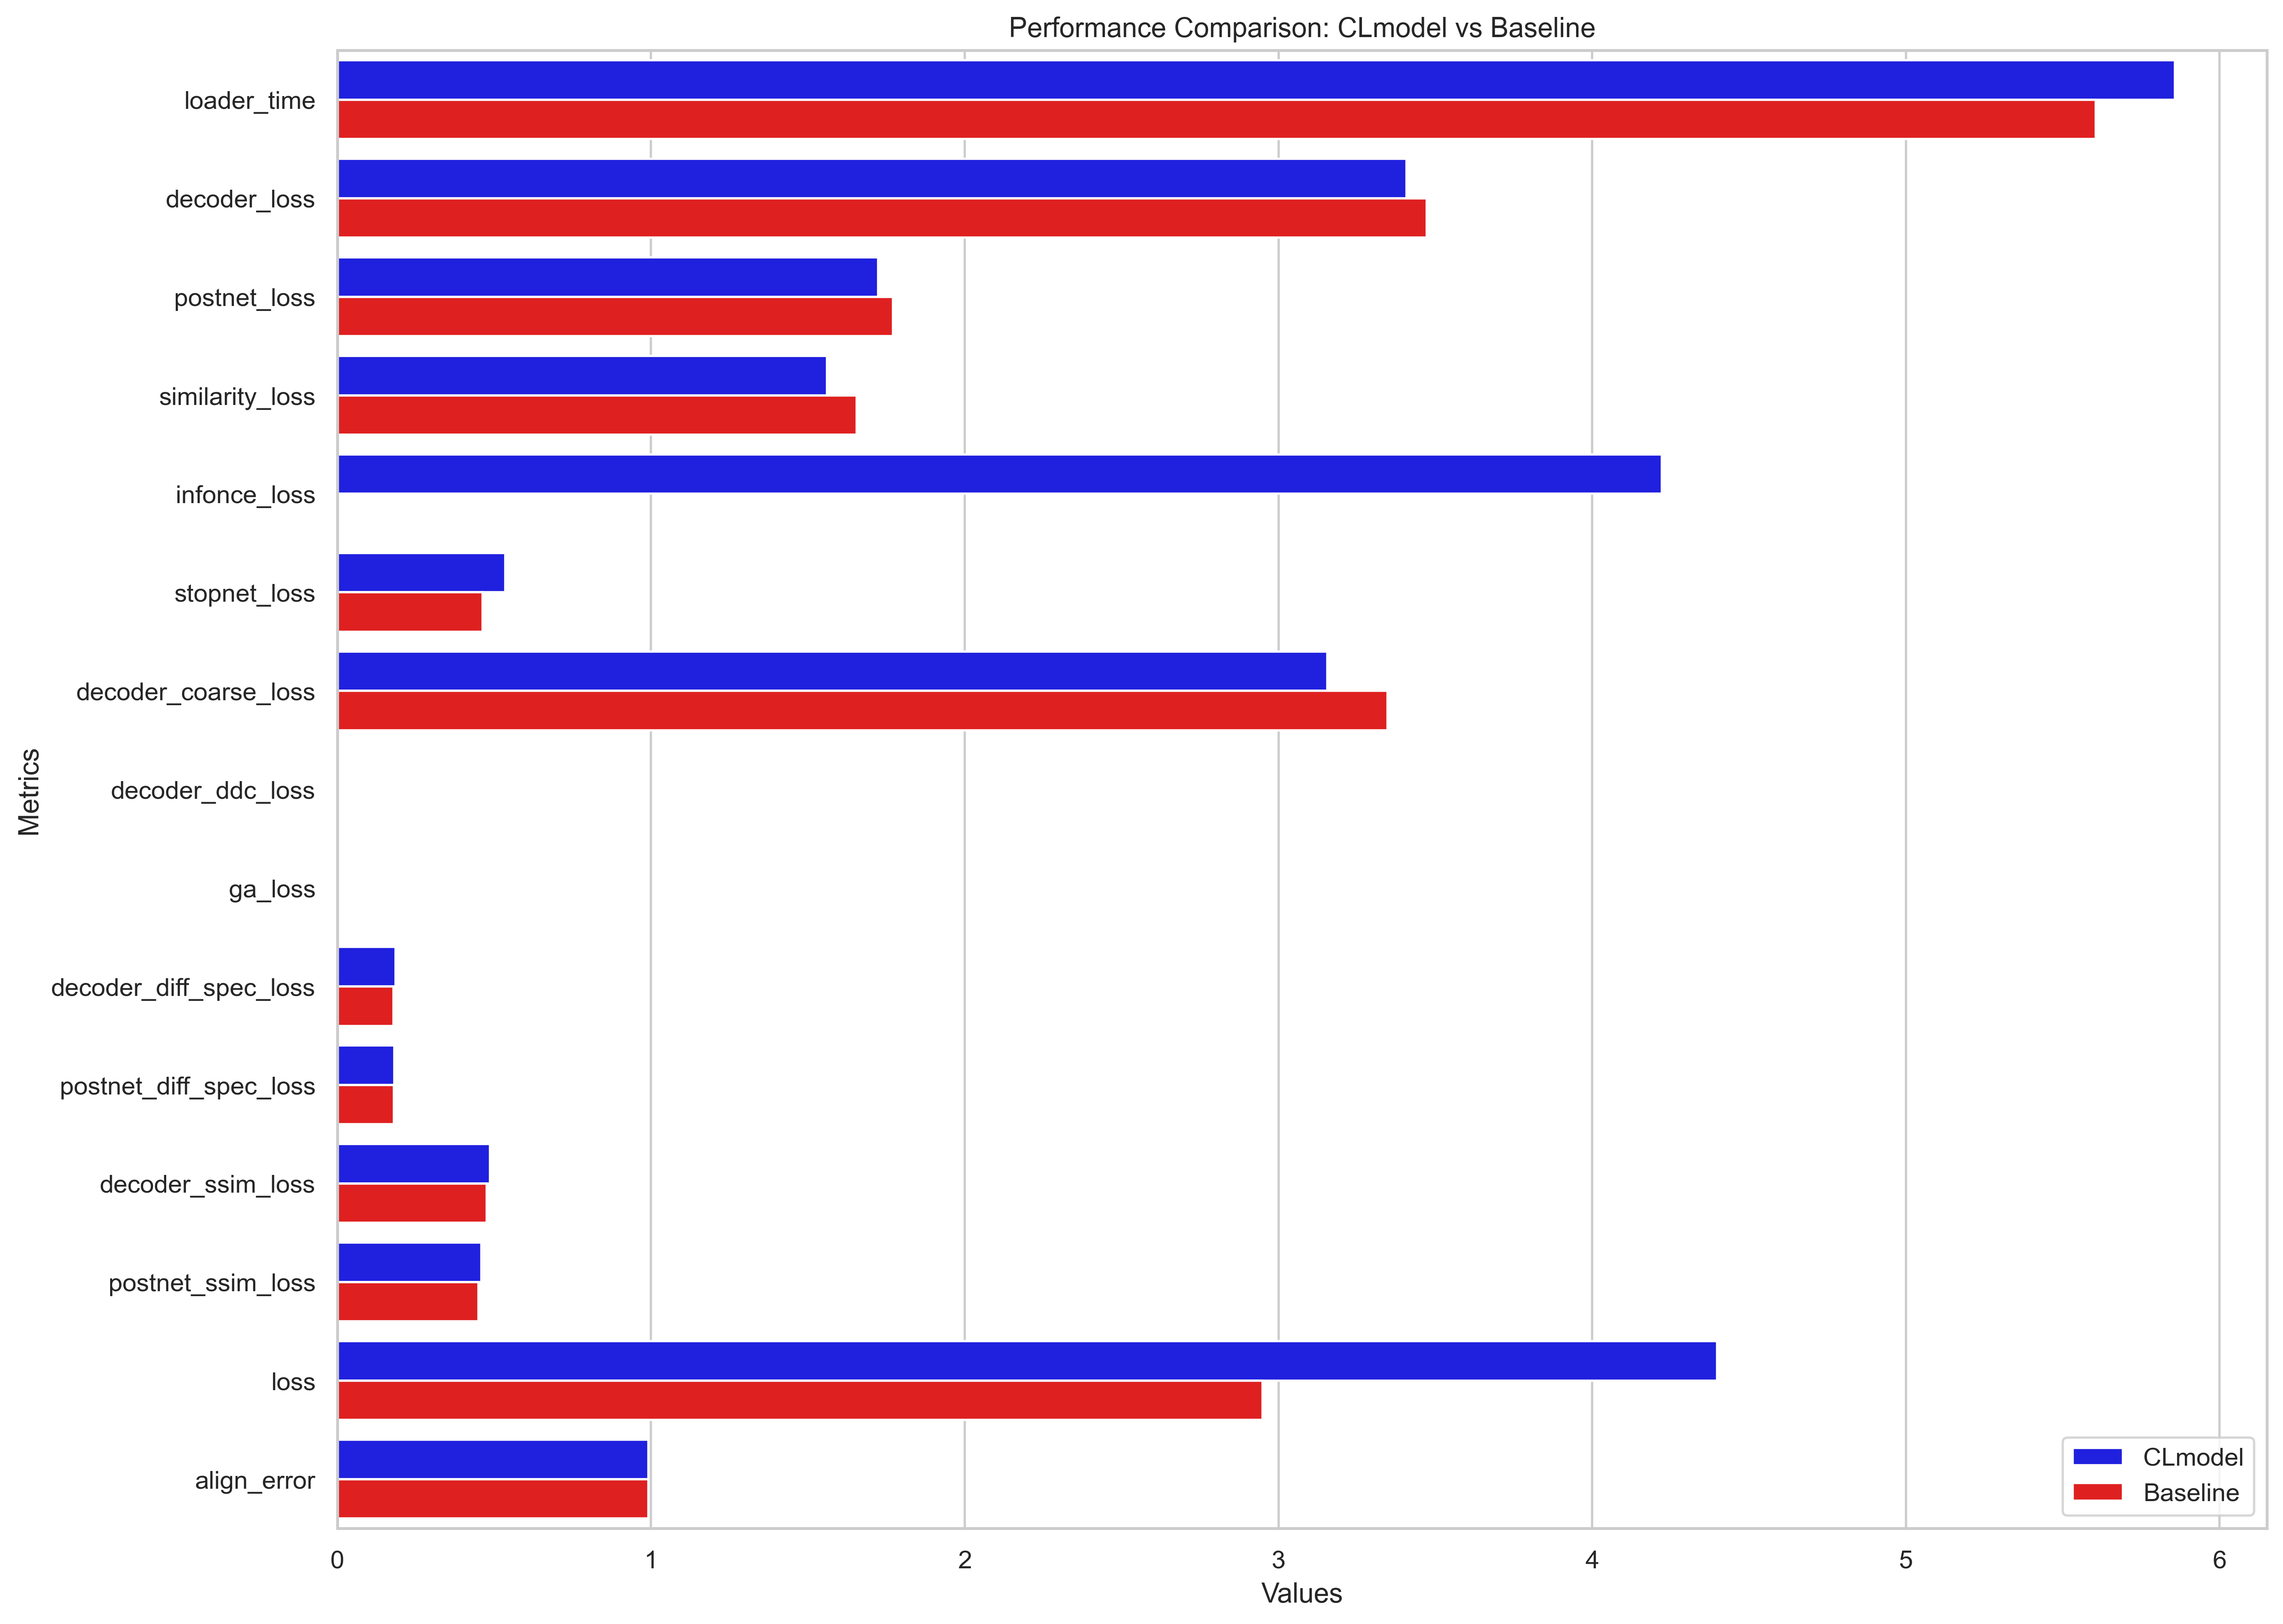
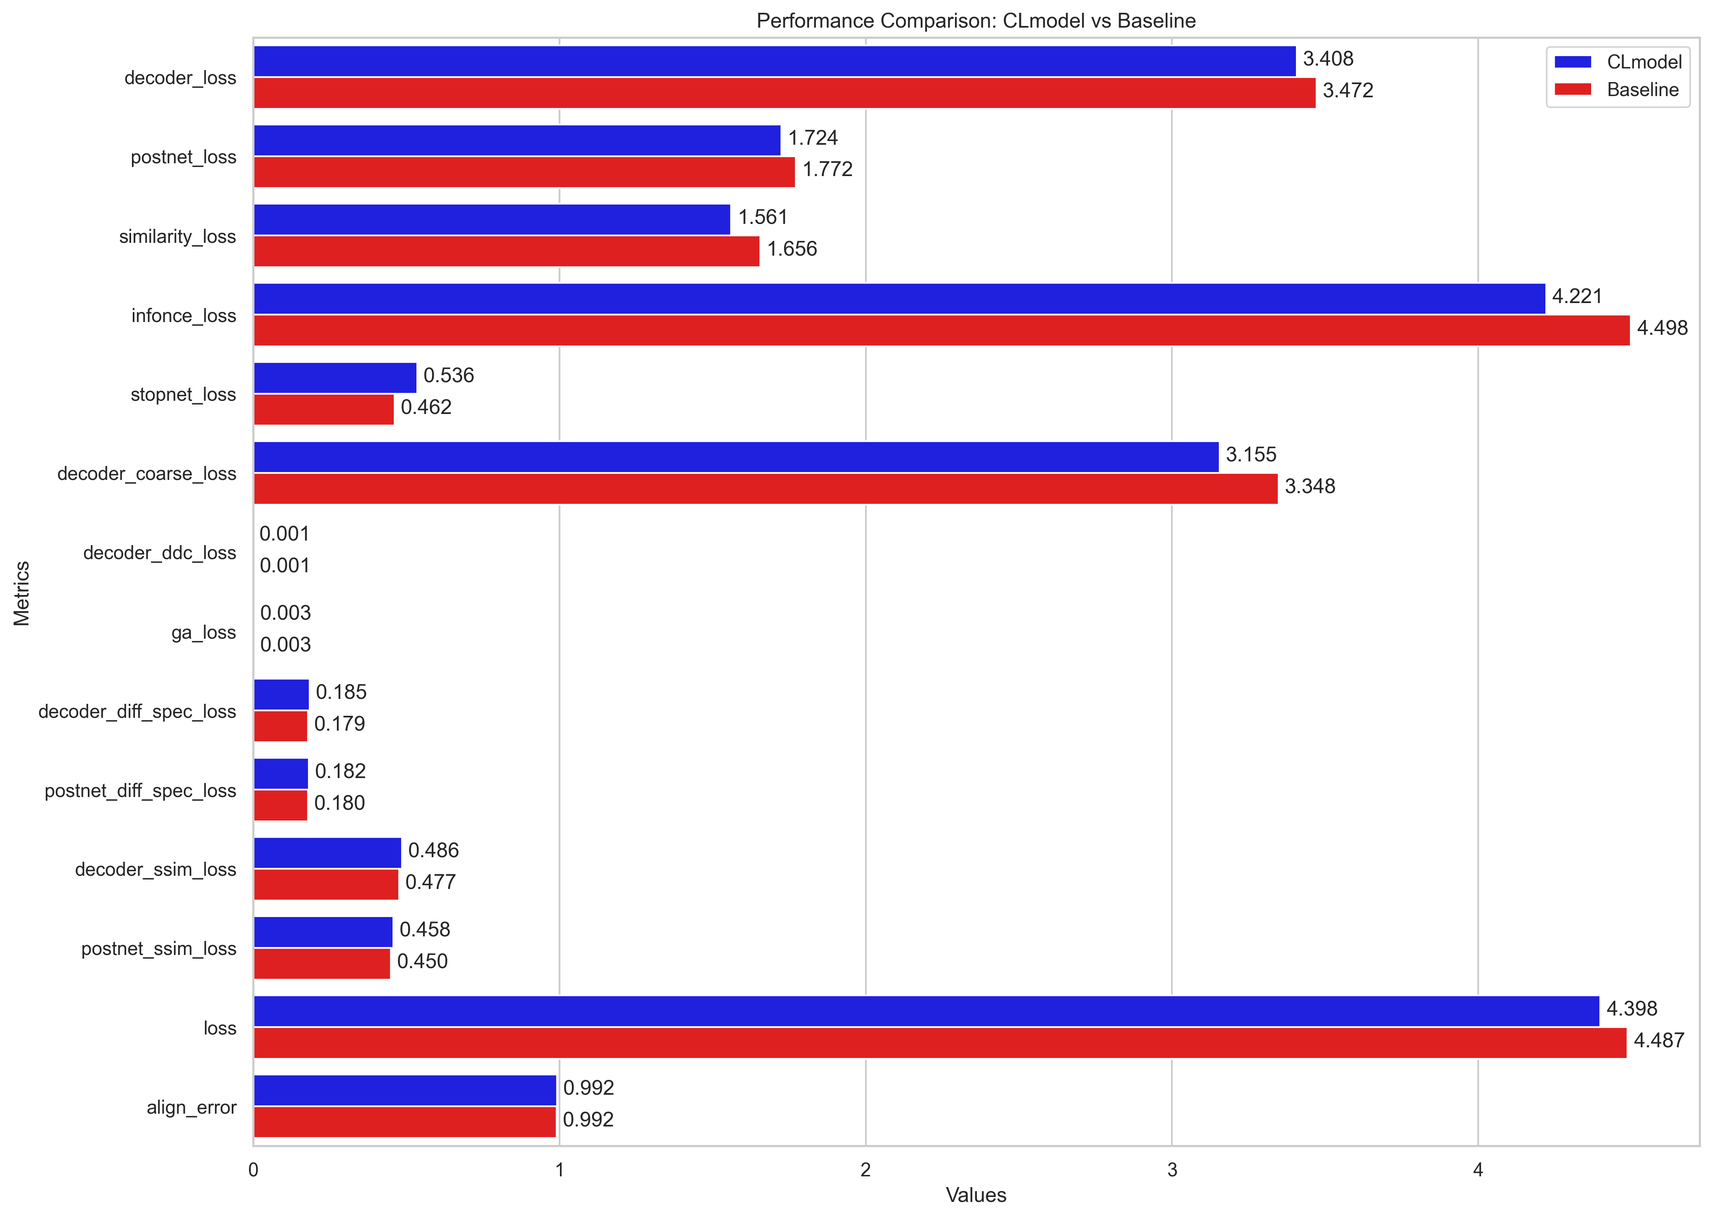
last

Changed region(s): [[0.0311, 0.0311, 0.9942, 0.9343]]

diff --git a/analysis/compare_average.py b/analysis/compare_average.py
@@ -5,7 +5,7 @@ import pandas as pd
 # Data for CLmodel
 clmodel_data = {
     'Metric': [
-        'loader_time', 'decoder_loss', 'postnet_loss', 
+        'decoder_loss', 'postnet_loss', 
         'similarity_loss', 'infonce_loss', 'stopnet_loss',
         'decoder_coarse_loss', 'decoder_ddc_loss', 'ga_loss',
         'decoder_diff_spec_loss', 'postnet_diff_spec_loss',
@@ -13,7 +13,7 @@ clmodel_data = {
         'align_error'
     ],
     'CLmodel': [
-        5.85770615569767, 3.407711613946546, 1.7241535632873026, 
+        3.407711613946546, 1.7241535632873026, 
         1.5607554778735504, 4.221498418994357, 0.5356772717963629,
         3.155016771720998, 0.0008339224229668403, 0.0034714720227412895,
         0.1851753995844828, 0.18158624359946737, 0.4859883688591622,
@@ -24,7 +24,7 @@ clmodel_data = {
 # Data for Baseline
 baseline_data = {
     'Metric': [
-        'loader_time', 'decoder_loss', 'postnet_loss', 
+        'decoder_loss', 'postnet_loss', 
         'similarity_loss', 'infonce_loss', 'stopnet_loss',
         'decoder_coarse_loss', 'decoder_ddc_loss', 'ga_loss',
         'decoder_diff_spec_loss', 'postnet_diff_spec_loss',
@@ -32,11 +32,11 @@ baseline_data = {
         'align_error'
     ],
     'Baseline': [
-        5.604639457317995, 3.4719955980653823, 1.7716483703026404, 
-        1.6558248278009173, 0.0, 0.4623984035236176,
-        3.3480122094342715, 0.0012244470635324478, 0.0033702695647374625,
-        0.17923032720098872, 0.17963628427526318, 0.4767700650587895,
-        0.44995327191640333, 2.9488673958609843, 0.9915197612340184
+        3.471994733612157, 1.7716488218604898, 
+        1.6558103856326636, 4.498039897415094, 0.4623983670916726,
+        3.3480118733681663, 0.0012244461503619504, 0.0033702696479949914,
+        0.17923033063971816, 0.1796362874041972, 0.4767701459773613,
+        0.4499532797232487, 4.487329770026738, 0.9915197661529893
     ]
 }
 
@@ -61,13 +61,12 @@ sns.set(style="whitegrid")
 df_melted = df.melt(id_vars='Metric', value_vars=['CLmodel', 'Baseline'], var_name='Model', value_name='Value')
 sns.barplot(x='Value', y='Metric', hue='Model', data=df_melted, palette=palette)
 
-# # Add lines to show differences
-# for index, row in df.iterrows():
-#     x1, x2 = row['CLmodel'], row['Baseline']
-#     y = index
-#     color = 'green' if row['Difference'] < 0 else 'red'
-#     plt.plot([x1, x2], [y, y], color=color, lw=5, solid_capstyle='butt')
-#     plt.text(max(x1, x2) + 0.15, y + 0.1, f"{row['Difference']:.2f}", color='black', ha='center')
+# Add lines to show differences
+for index, row in df.iterrows():
+    x1, x2 = row['CLmodel'], row['Baseline']
+    y = index
+    plt.text(x1 + 0.02, y - 0.15, f"{x1:.3f}")
+    plt.text(x2 + 0.02, y + 0.25, f"{x2:.3f}")
 
 plt.title('Performance Comparison: CLmodel vs Baseline')
 plt.xlabel('Values')

diff --git a/analysis/collected_losses/plot_funcs.py b/analysis/collected_losses/plot_funcs.py
@@ -62,6 +62,14 @@ def plot_boxplot(params):
                 linestyle=["-", "--"][trained_bool],
                 alpha=[1.0, 0.5][trained_bool],
             )
+            
+            # Print mean and std
+            mean = np.mean(values)
+            std = np.std(values)
+            print(f"{key} {'Trained' if trained_bool == 0 else 'Untrained'} {xlabel}:")
+            print(f"Mean: {mean:.3f}")
+            print(f"Std: {std:.3f}")
+            print()
 
     # Add legend with custom handles
     plt.legend(legend_line, legend_name, loc="upper right")
@@ -83,11 +91,11 @@ if __name__ == "__main__":
             "title": "Cosine Similarity Loss",
             "files": {
                 "Baseline": [
-                    "custom_sim_loss__baseline.npy", # Trained
+                    "custom_sim_loss__baseline_full.npy", # Trained
                     # "custom_sim_loss_None_baseline.npy", # Untrained
                 ],
                 "CLmodel": [
-                    "custom_sim_loss__clmodel.npy", # Trained
+                    "custom_sim_loss__clmodel_full.npy", # Trained
                     # "custom_sim_loss_None_clmodel.npy", # Untrained
                 ],
             },
@@ -96,11 +104,11 @@ if __name__ == "__main__":
             "title": "Decoder Loss",
             "files": {
                 "Baseline": [
-                    "custom_decoder_loss__baseline.npy", # Trained
+                    "custom_decoder_loss__baseline_full.npy", # Trained
                     # "custom_decoder_loss_None_baseline.npy", # Untrained
                 ],
                 "CLmodel": [
-                    "custom_decoder_loss__clmodel.npy", # Trained
+                    "custom_decoder_loss__clmodel_full.npy", # Trained
                     # "custom_decoder_loss_None_clmodel.npy", # Untrained
                 ],
             },

diff --git a/README.md b/README.md
@@ -3,12 +3,8 @@ Semester project
 Computer Engineering - AI, Vision & Sound - 8. semester (CE-AVS8)
 Group 841, Aalborg University 2024
 
-## Description
-
-
 ## Contributors:
 - Marko Putak
-- Yu-ling Cheng
 - Sameer Aqib Hashmi
 - Tonko Bossen
 
